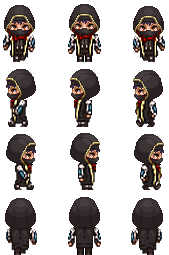
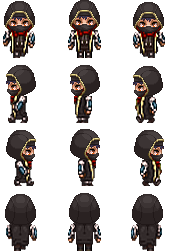
modif taille colisions perso

diff --git a/maxime_class.py b/maxime_class.py
@@ -56,6 +56,7 @@ def load_spritesheet(filename, num_lignes, num_cols):
         for col in range(num_cols):
             rect = pygame.Rect(col * frame_l, ligne * frame_h, frame_l, frame_h)
             sprite = sheet.subsurface(rect)
+            sprite = pygame.transform.scale(sprite, (32, 24))
             line_frames.append(sprite)
         sprites.append(line_frames) # On stocke par lignes pour plus de clarté
             
@@ -69,11 +70,13 @@ class Personnage(pygame.sprite.Sprite):
         self.animations = animations
 
         self.image = self.animations[0][0]
+        self.image = pygame.transform.scale(self.image, (32, 24))
         #la position max du perso en x = 769px et en y = 569px
         self.rect = self.image.get_rect()
         self.rect.x = 500
         self.rect.y = 500
-
+        self.index_anim = 0
+        self.nb_frame = 0
         self.id = id
         self.nom = nom
         self.prenom = prenom
@@ -96,18 +99,48 @@ class Personnage(pygame.sprite.Sprite):
         
         keys = pygame.key.get_pressed()
 
+        
         # Déplacement horizontal
         if keys[pygame.K_q] or keys[pygame.K_LEFT]:
             self.rect.x -= self.speed
-        if keys[pygame.K_d] or keys[pygame.K_RIGHT]:
+            self.image = self.animations[1][self.index_anim]
+            if self.nb_frame == 20:
+                self.nb_frame = 0
+                if self.index_anim < 3:
+                    index_anim += 1
+                elif index_anim == 3:
+                    self.index_anim = 0
+        elif keys[pygame.K_d] or keys[pygame.K_RIGHT]:
             self.rect.x += self.speed
-
+            self.image = self.animations[2][self.index_anim]
+            if self.nb_frame == 20:
+                self.nb_frame = 0
+                if self.index_anim < 3:
+                    index_anim += 1
+                elif index_anim == 3:
+                    self.index_anim = 0
         # Déplacement vertical
-        if keys[pygame.K_z] or keys[pygame.K_UP]:
-            self.rect.y -= self.speed
-        if keys[pygame.K_s] or keys[pygame.K_DOWN]:
+        elif keys[pygame.K_z] or keys[pygame.K_UP]:
+            self.rect.y = self.rect.y- self.speed
+            self.image = self.animations[3][self.index_anim]
+            if self.nb_frame == 20:
+                self.nb_frame = 0
+                if self.index_anim < 3:
+                    index_anim += 1
+                elif index_anim == 3:
+                    self.index_anim = 0
+        elif keys[pygame.K_s] or keys[pygame.K_DOWN]:
             self.rect.y += self.speed
-
+            self.image = self.animations[0][self.index_anim]
+            if self.nb_frame == 20:
+                self.nb_frame = 0
+                if self.index_anim < 3:
+                    index_anim += 1
+                elif index_anim == 3:
+                    self.index_anim = 0
+        else:
+            index_anim = 0
+        
         # Limites de l'écran (Contraintes)
         if self.rect.left < 0:
             self.rect.left = 0
@@ -119,8 +152,8 @@ class Personnage(pygame.sprite.Sprite):
         elif self.rect.bottom > 768:
             self.rect.bottom = 768
 
-            pygame.display.flip() #voir le rendu actuel
-            self.image = self.image.convert_alpha()
+        pygame.display.flip() #voir le rendu actuel
+        self.image = self.image.convert_alpha()
                 
     
 
